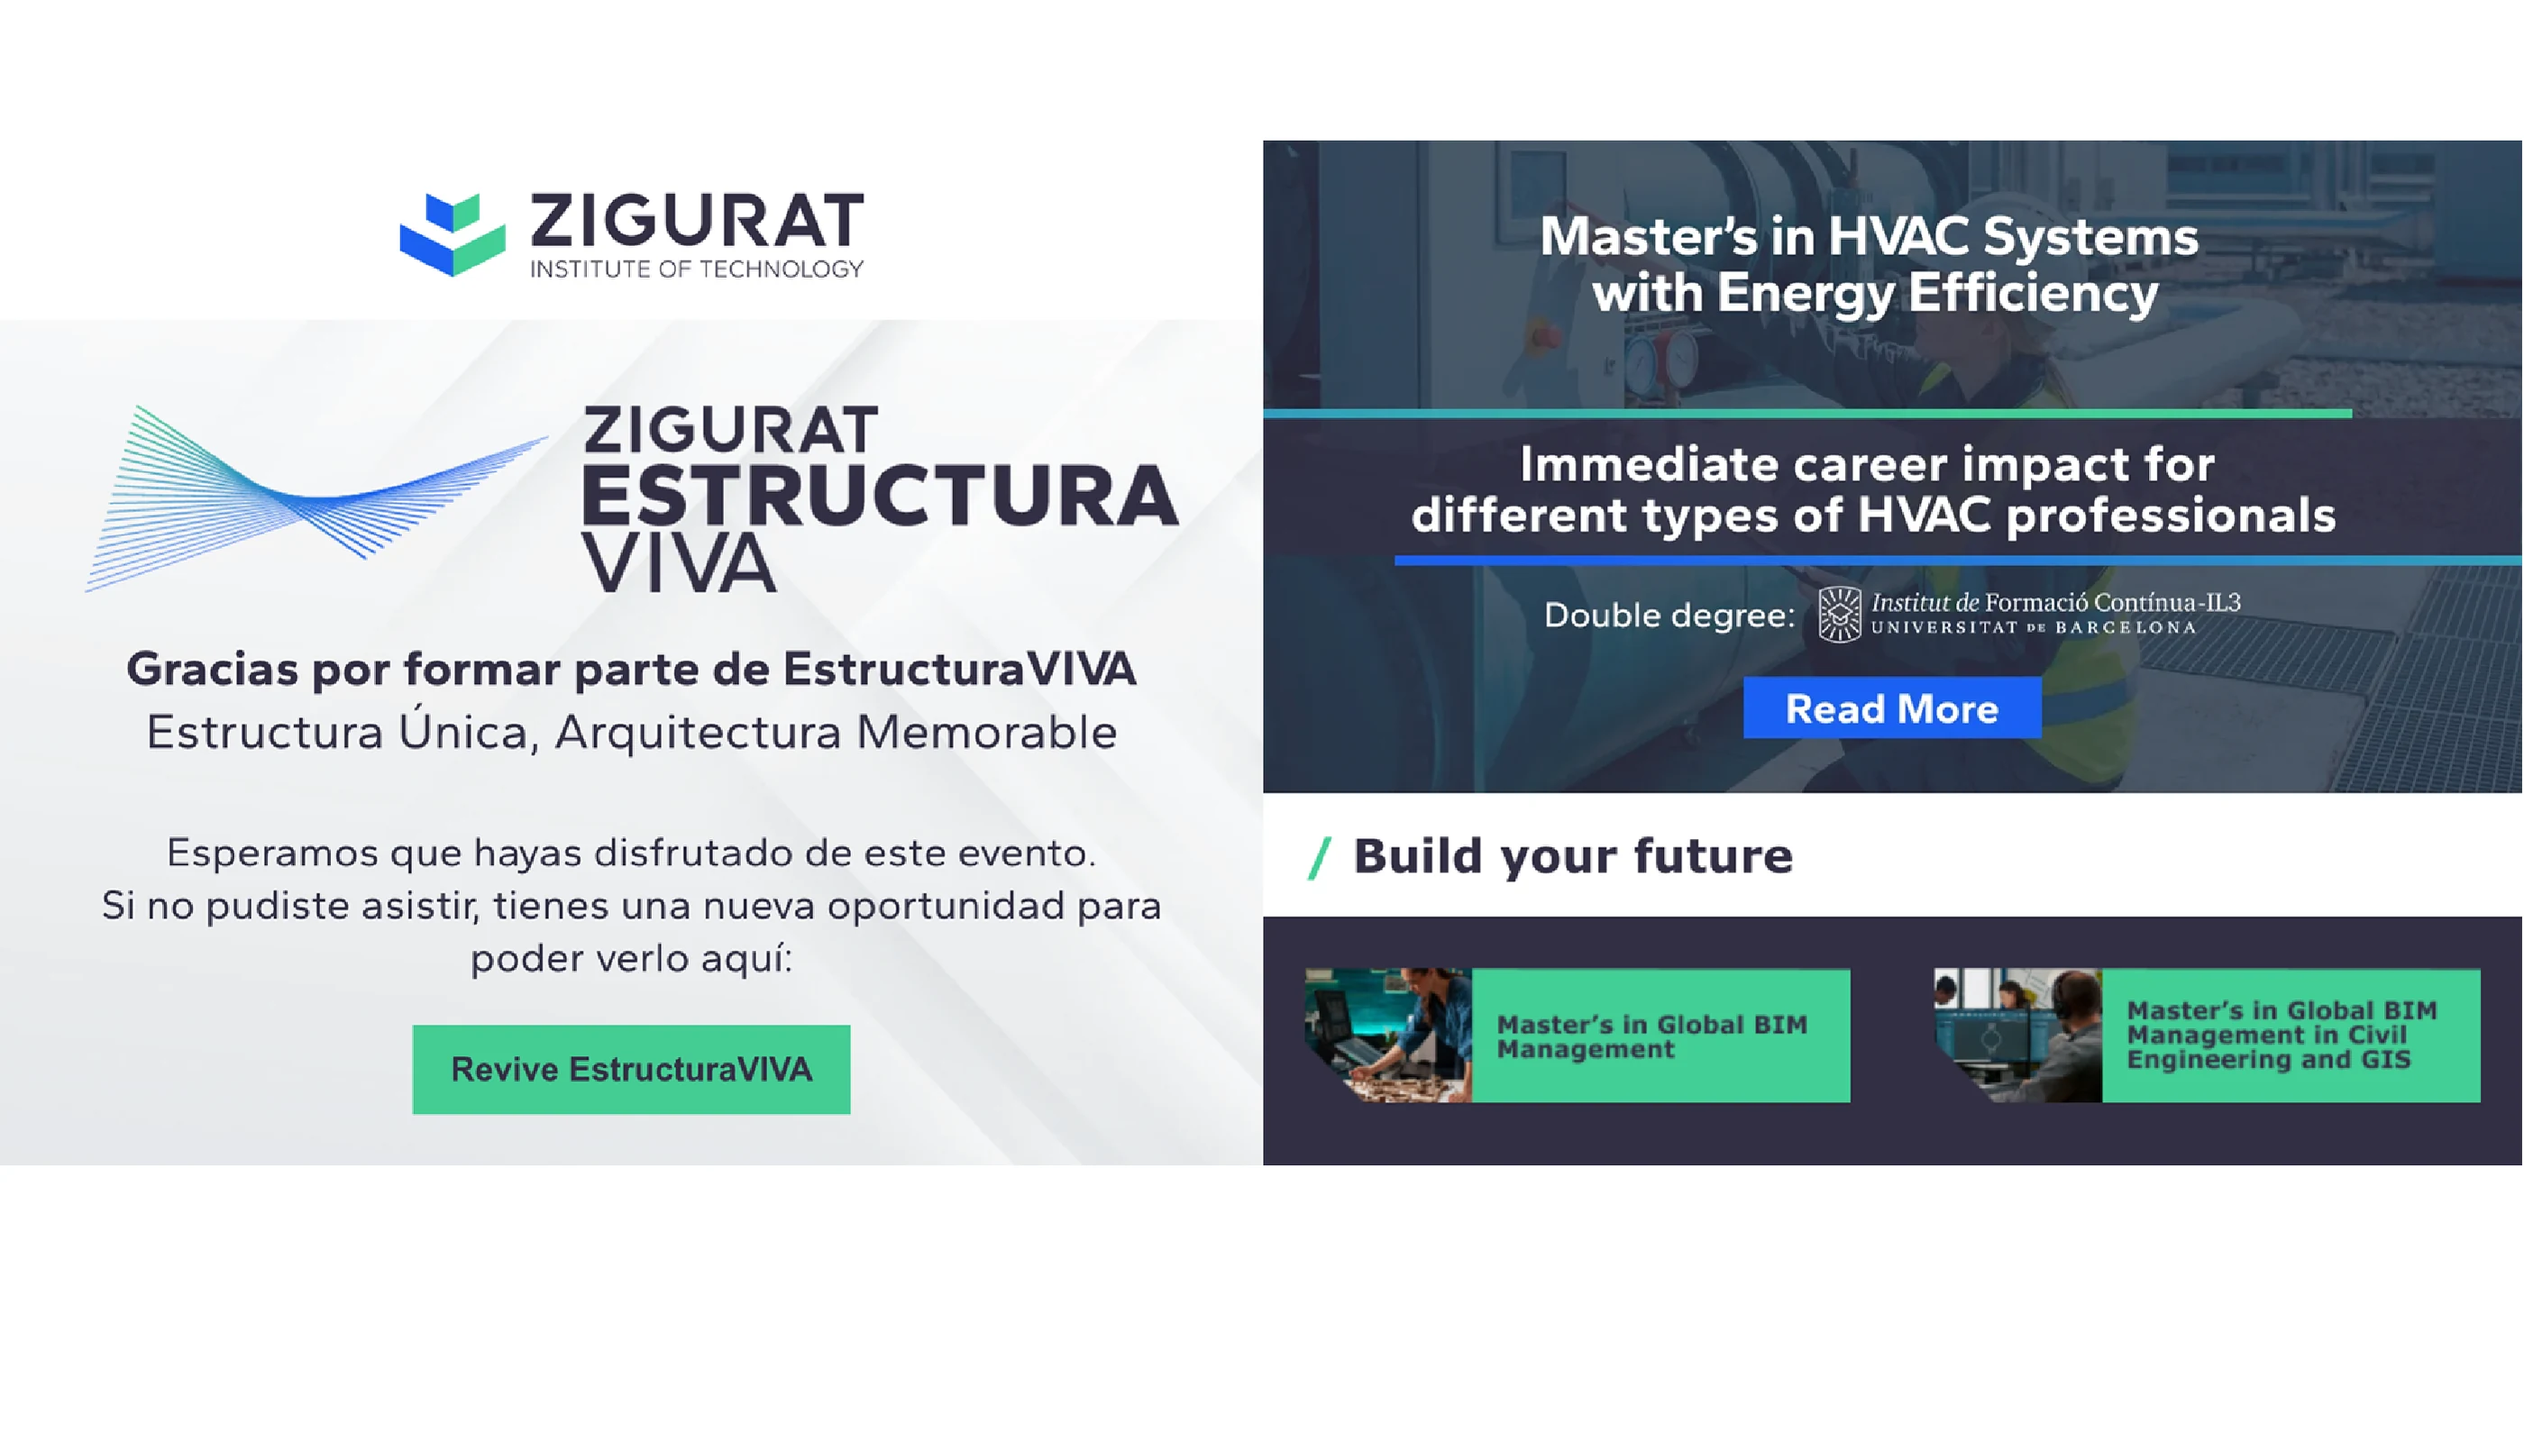
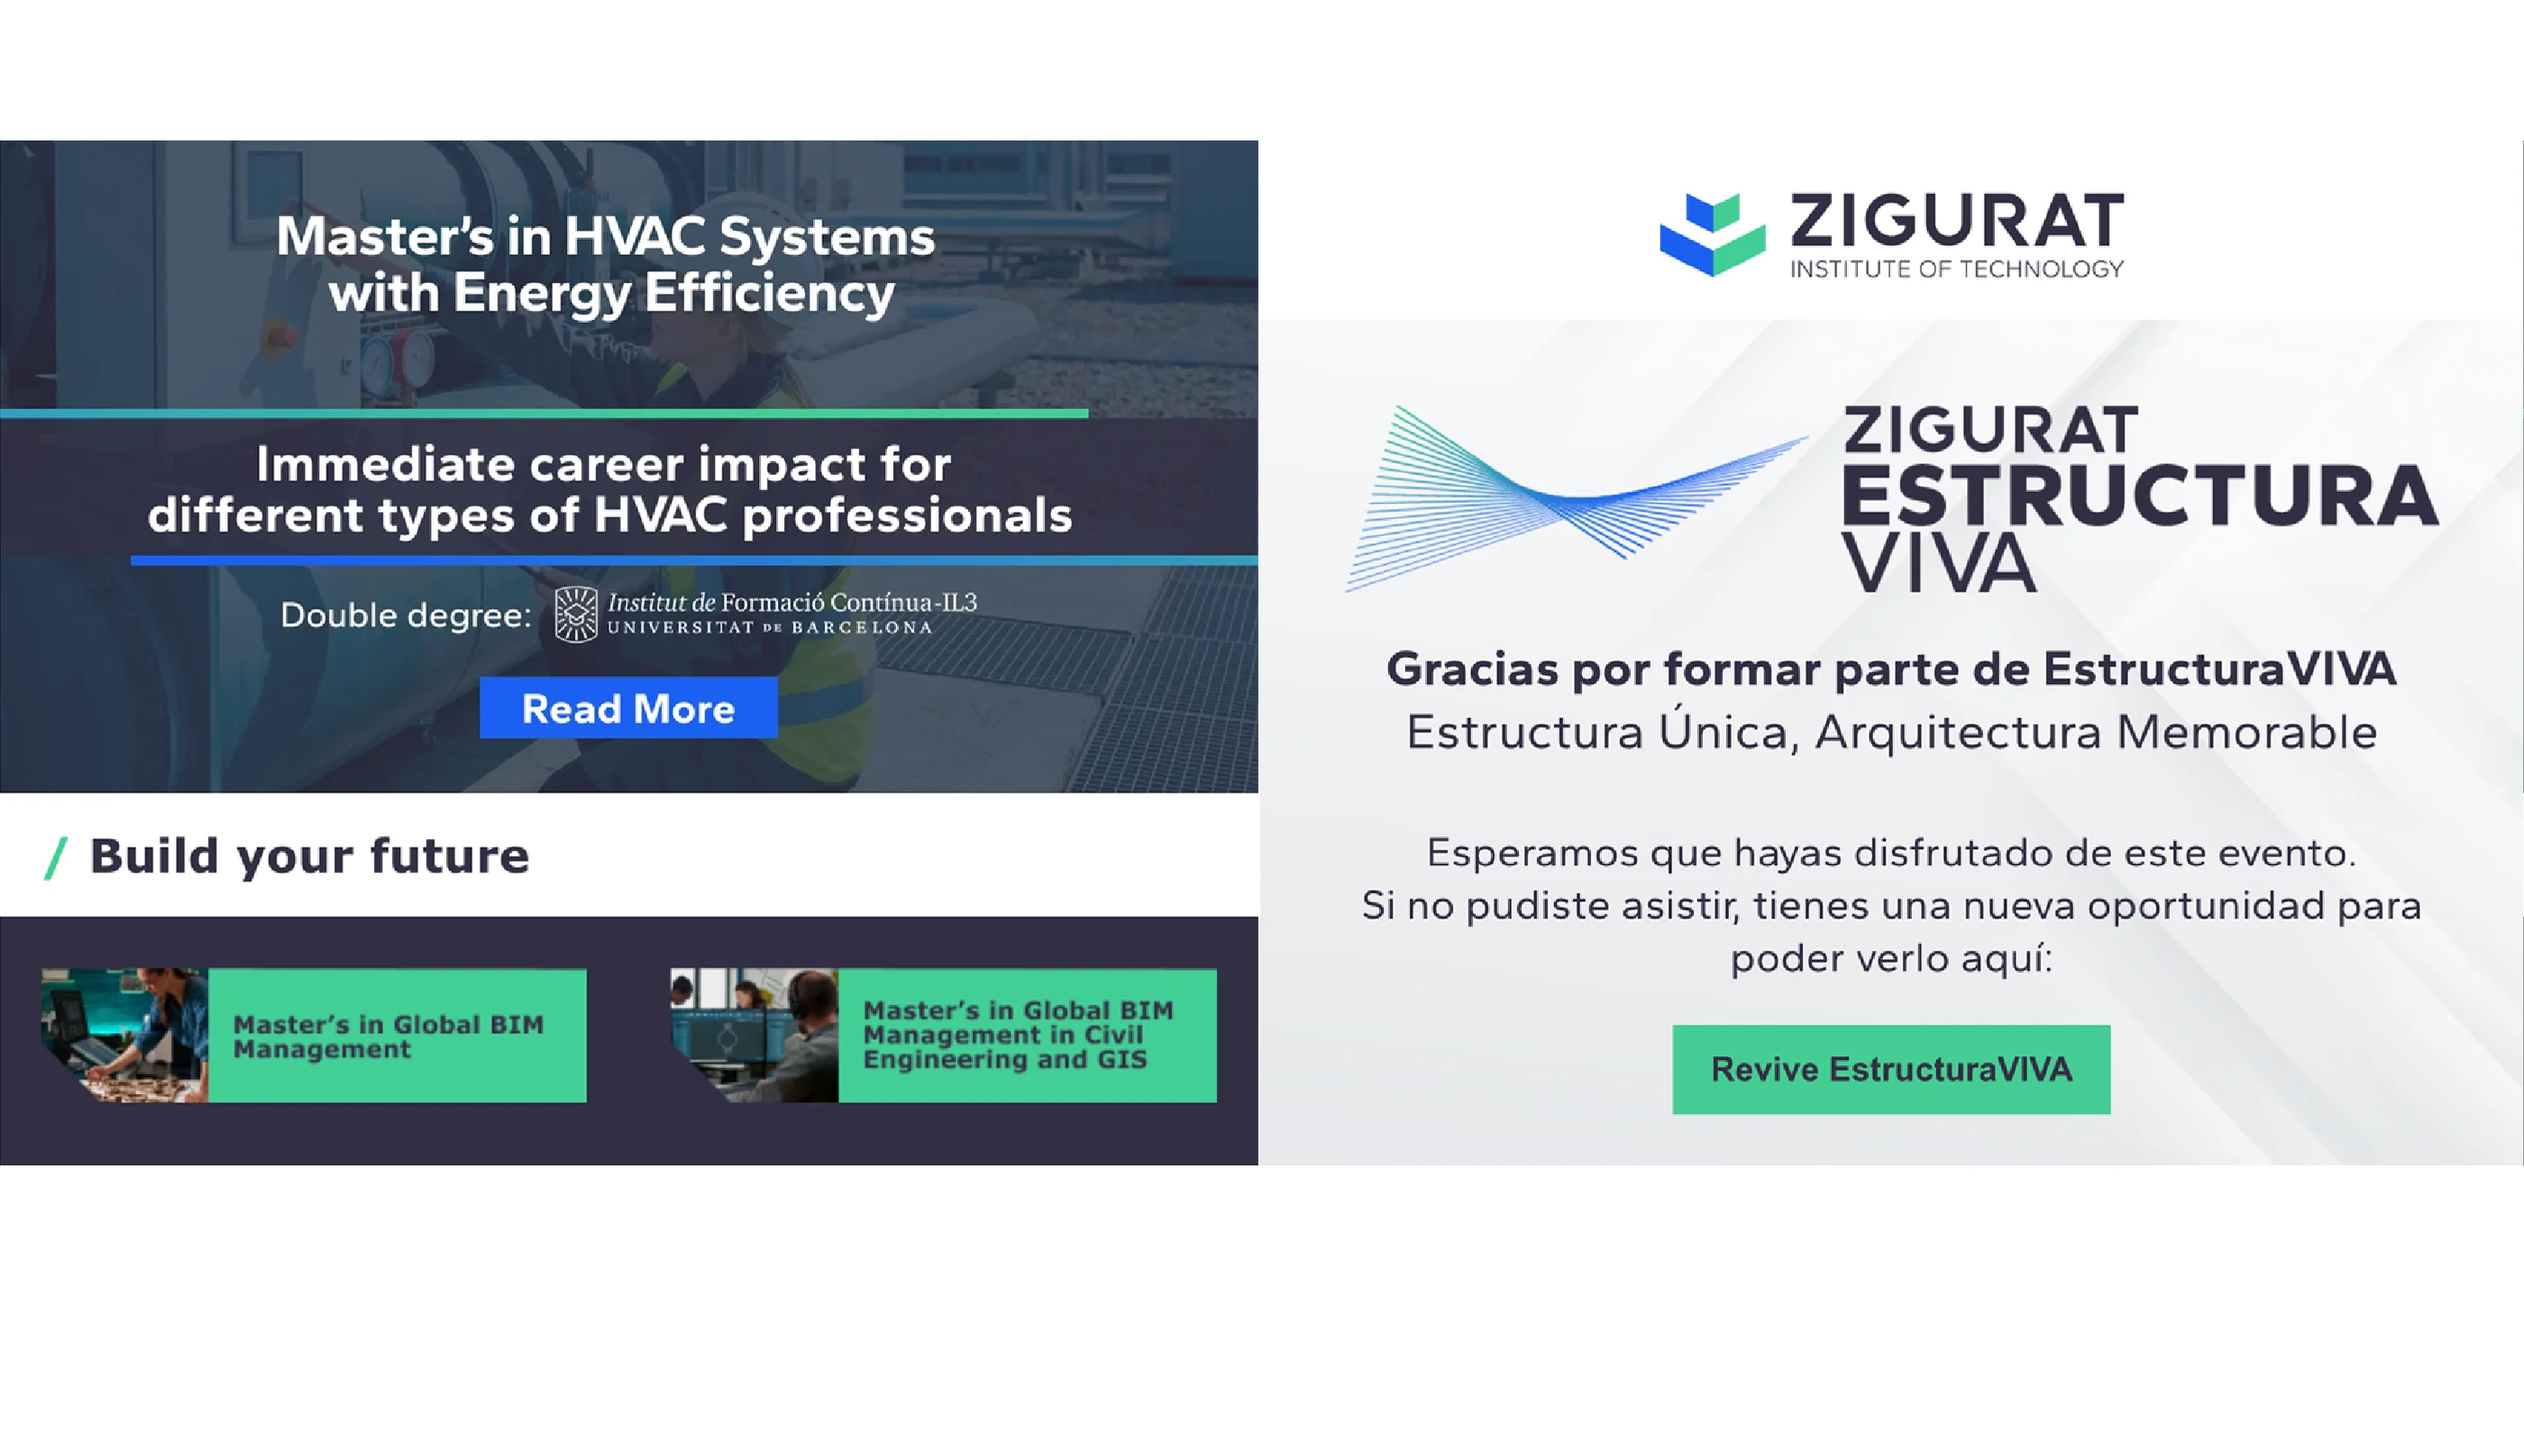
Email hero: newsletter left, post-event right
Claude-Session: https://claude.ai/code/session_01FyouQdSsVKyt1hEUqojYM4

diff --git a/src/data/projects/email-communication-design.js b/src/data/projects/email-communication-design.js
@@ -28,7 +28,7 @@ export default {
   ],
 
   cover: { src: "/home/grid/email.webp", alt: "Email system overview" },
-  hero: { src: "/projects/email-design/hero.webp", alt: "Email system: post-event email and newsletter" },
+  hero: { src: "/projects/email-design/hero.webp", alt: "Email system: newsletter and post-event email" },
   thumbs: [
     { src: "/home/list/email-1.webp", alt: "Newsletter" },
     { src: "/home/list/email-2.webp", alt: "Post-event" },
